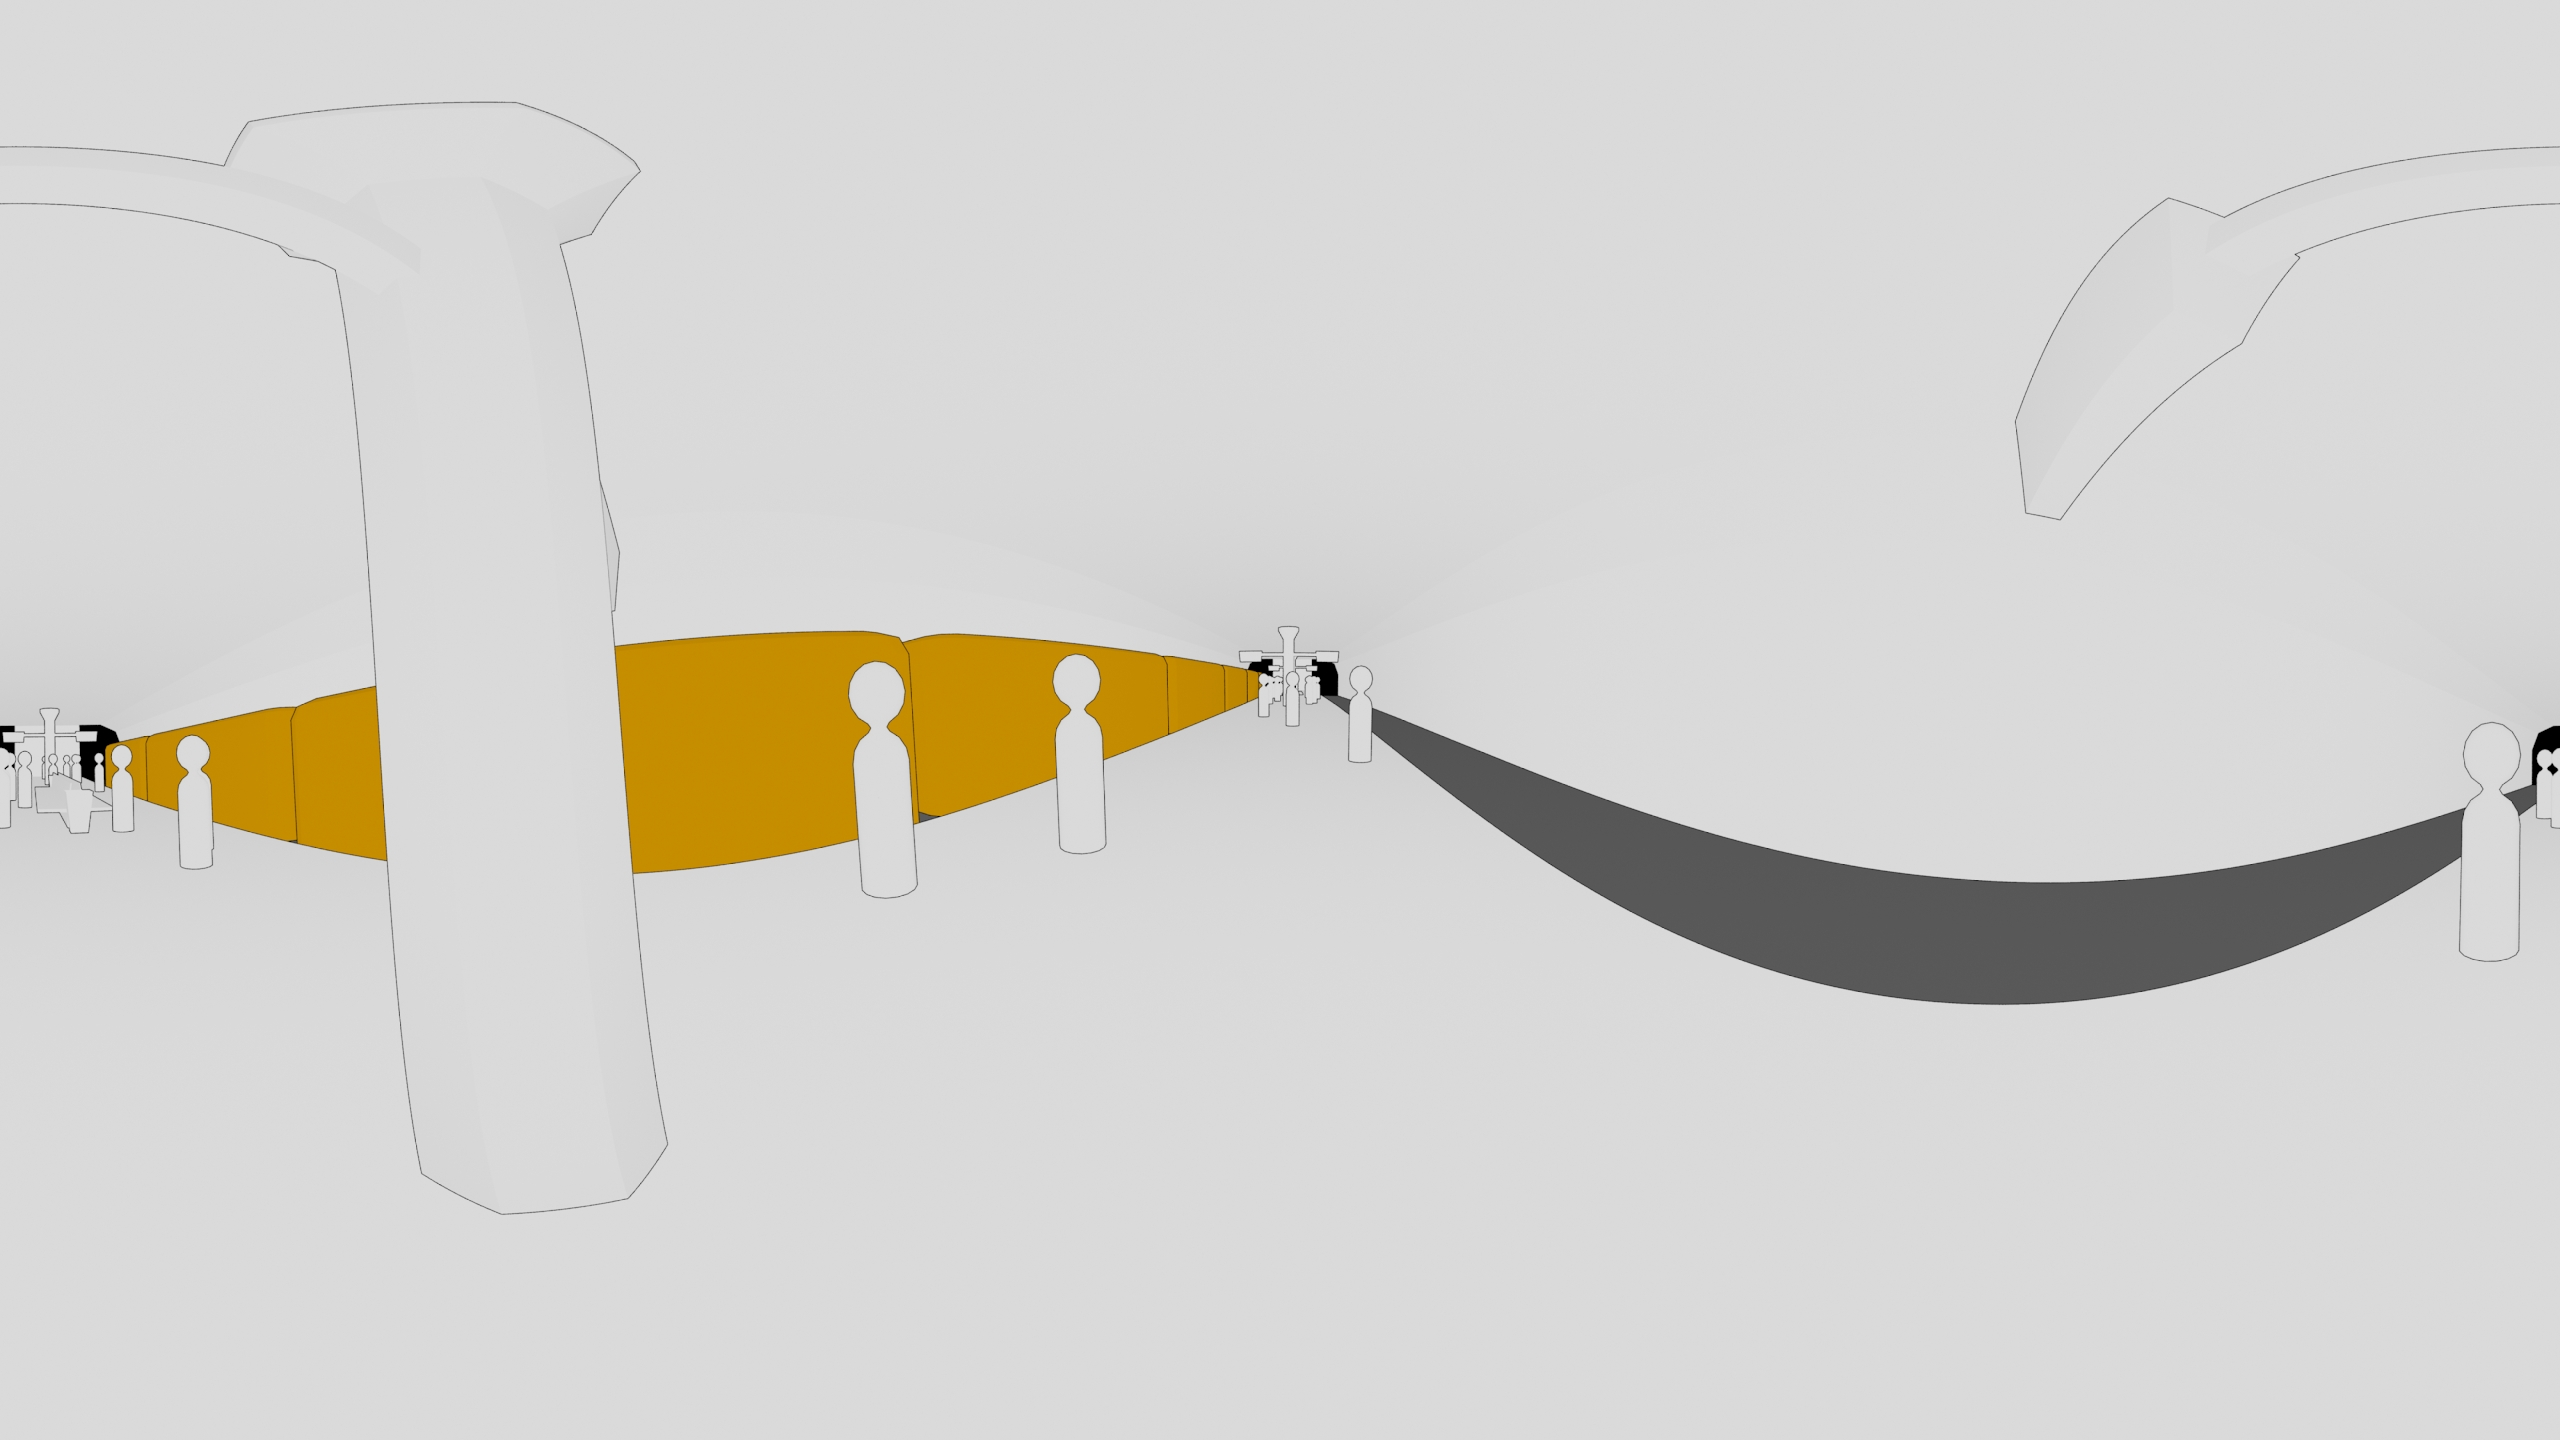
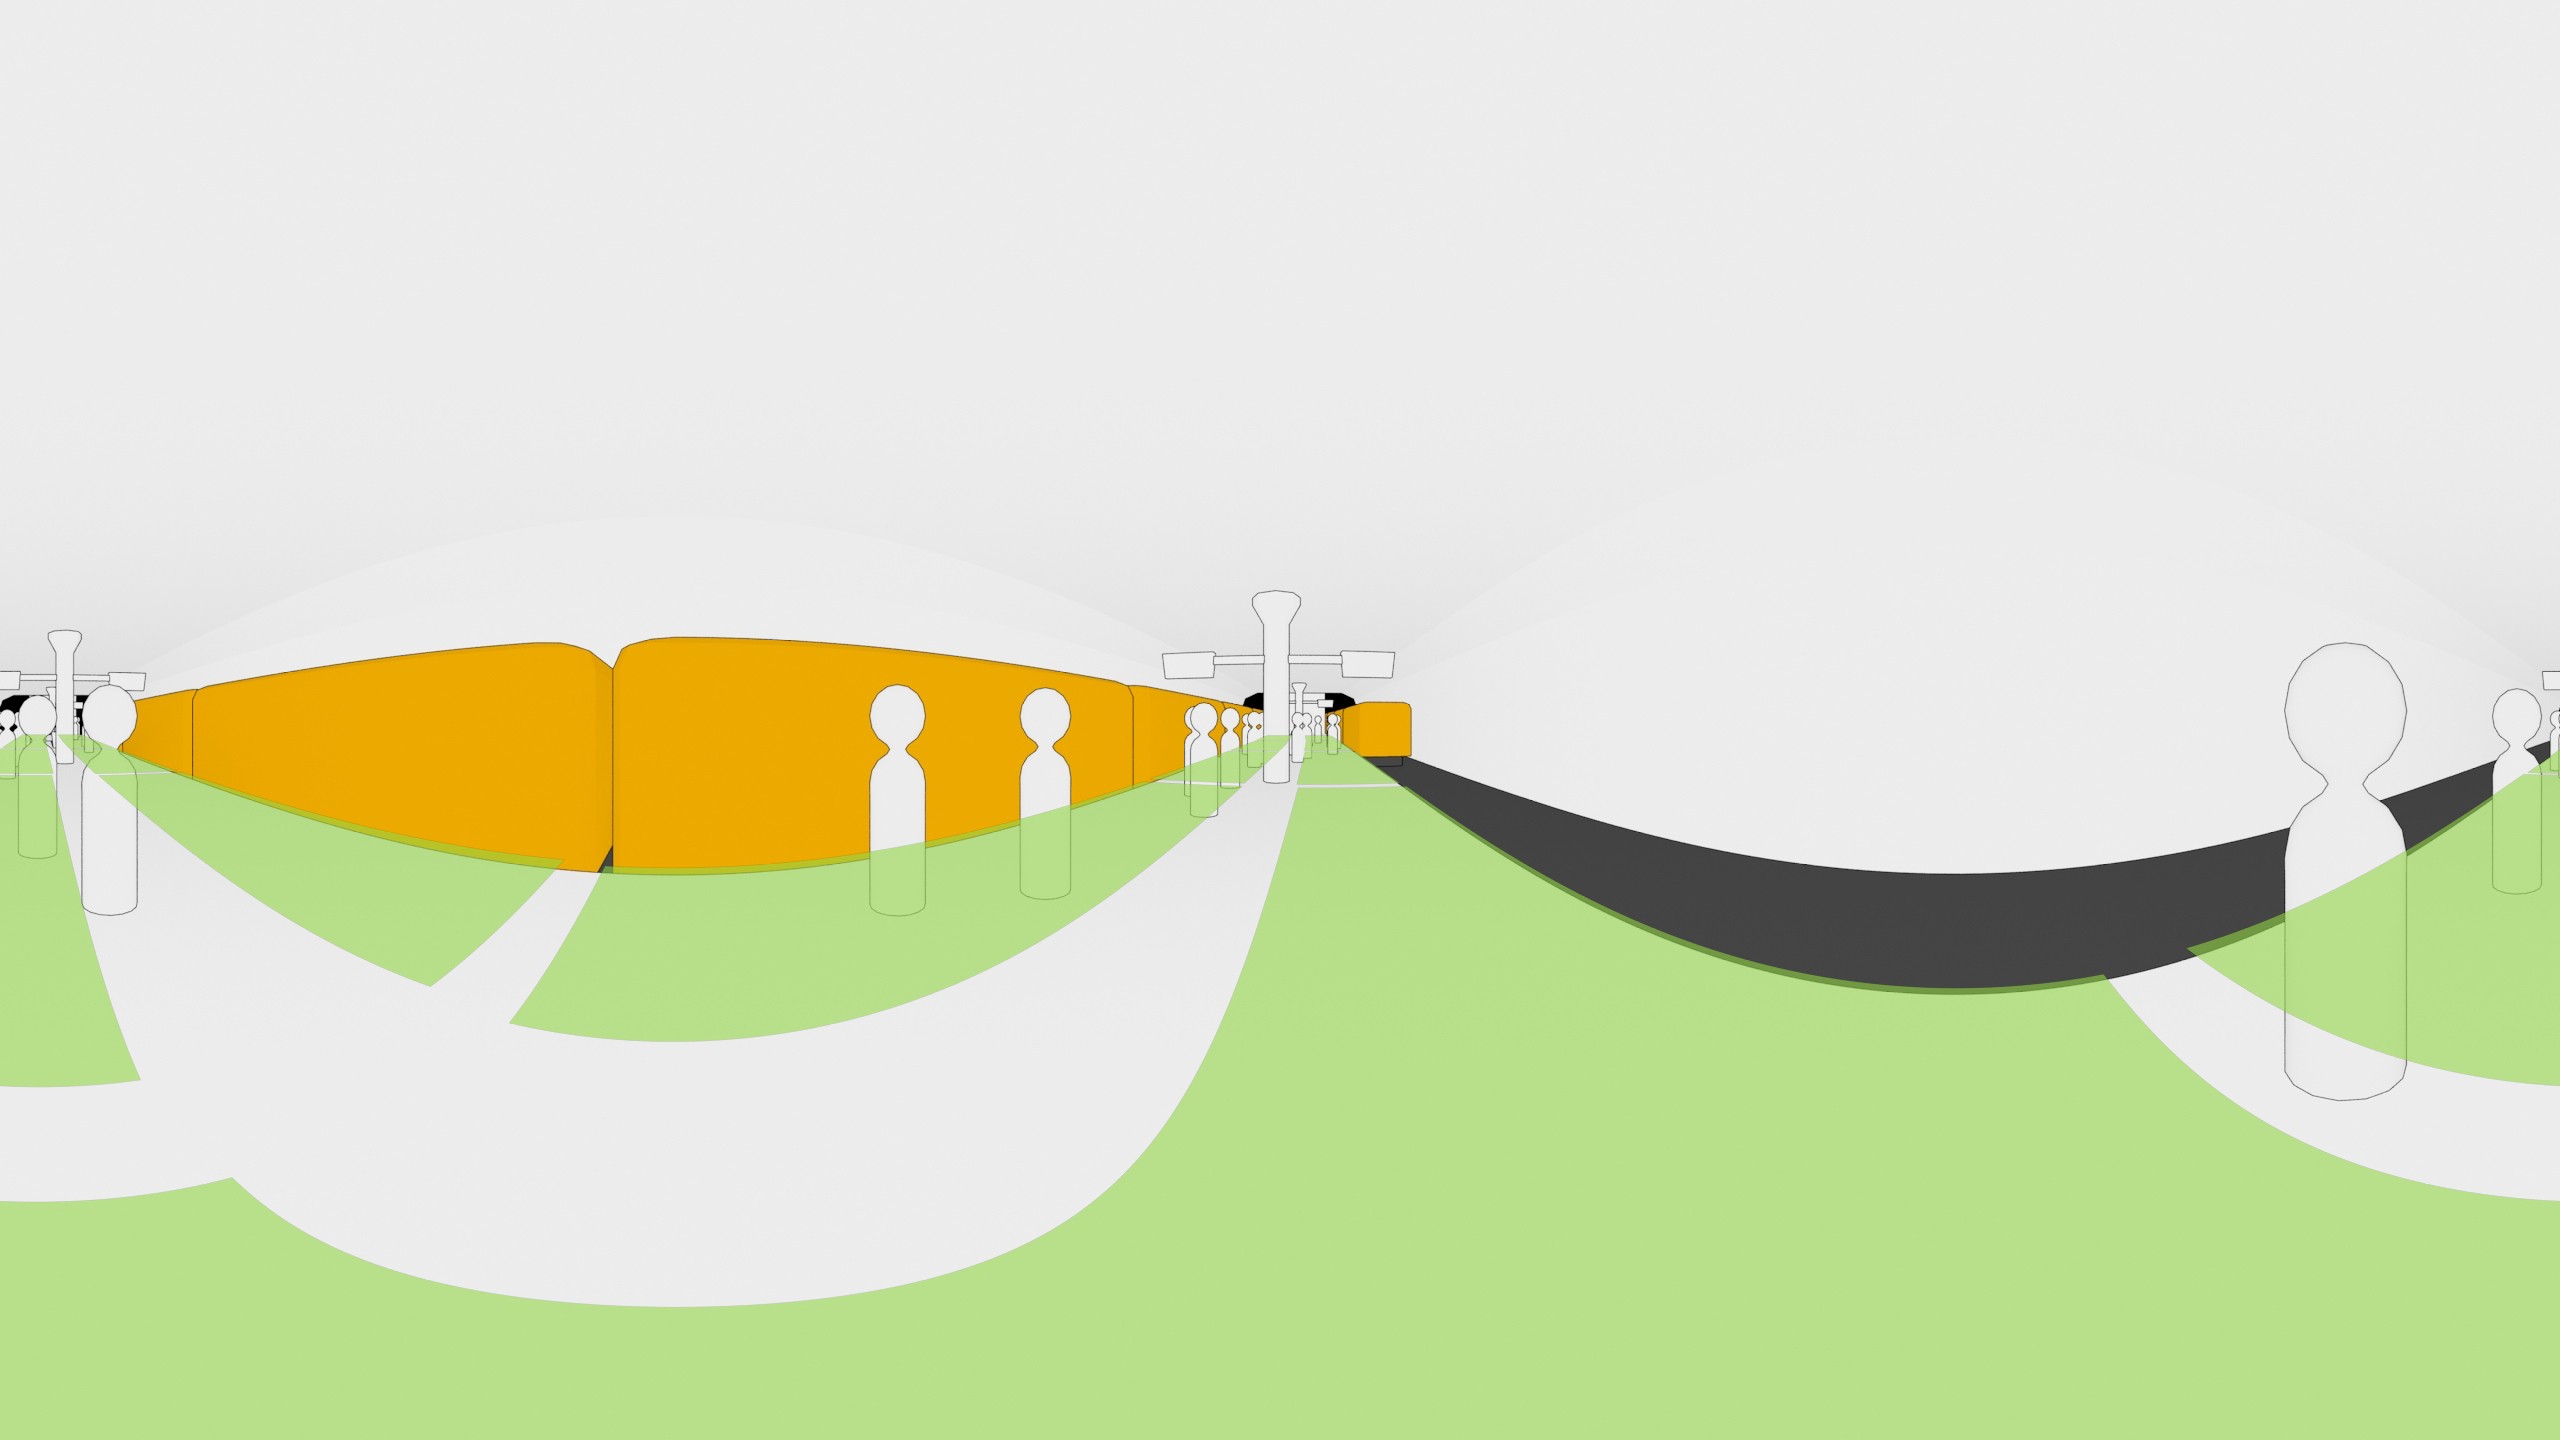
dsfsdf
sdfsdfs

diff --git a/ar/index.html b/ar/index.html
@@ -15,9 +15,9 @@
     <a-assets>
       <img id="scenario1" src="scenario1.JPG">
       <img id="scenario2" src="scenario2.JPG">
-      <img id="scenario3" src="scenario3.JPG">
+
     </a-assets>
-    <a-sky id="image-360" radius="10" rotation="0 -90 0" src="#scenario3"></a-sky>
+    <a-sky id="image-360" radius="10" rotation="0 -90 0" src="#scenario2"></a-sky>
     <a-camera look-controls></a-camera>
 
   </a-scene>
